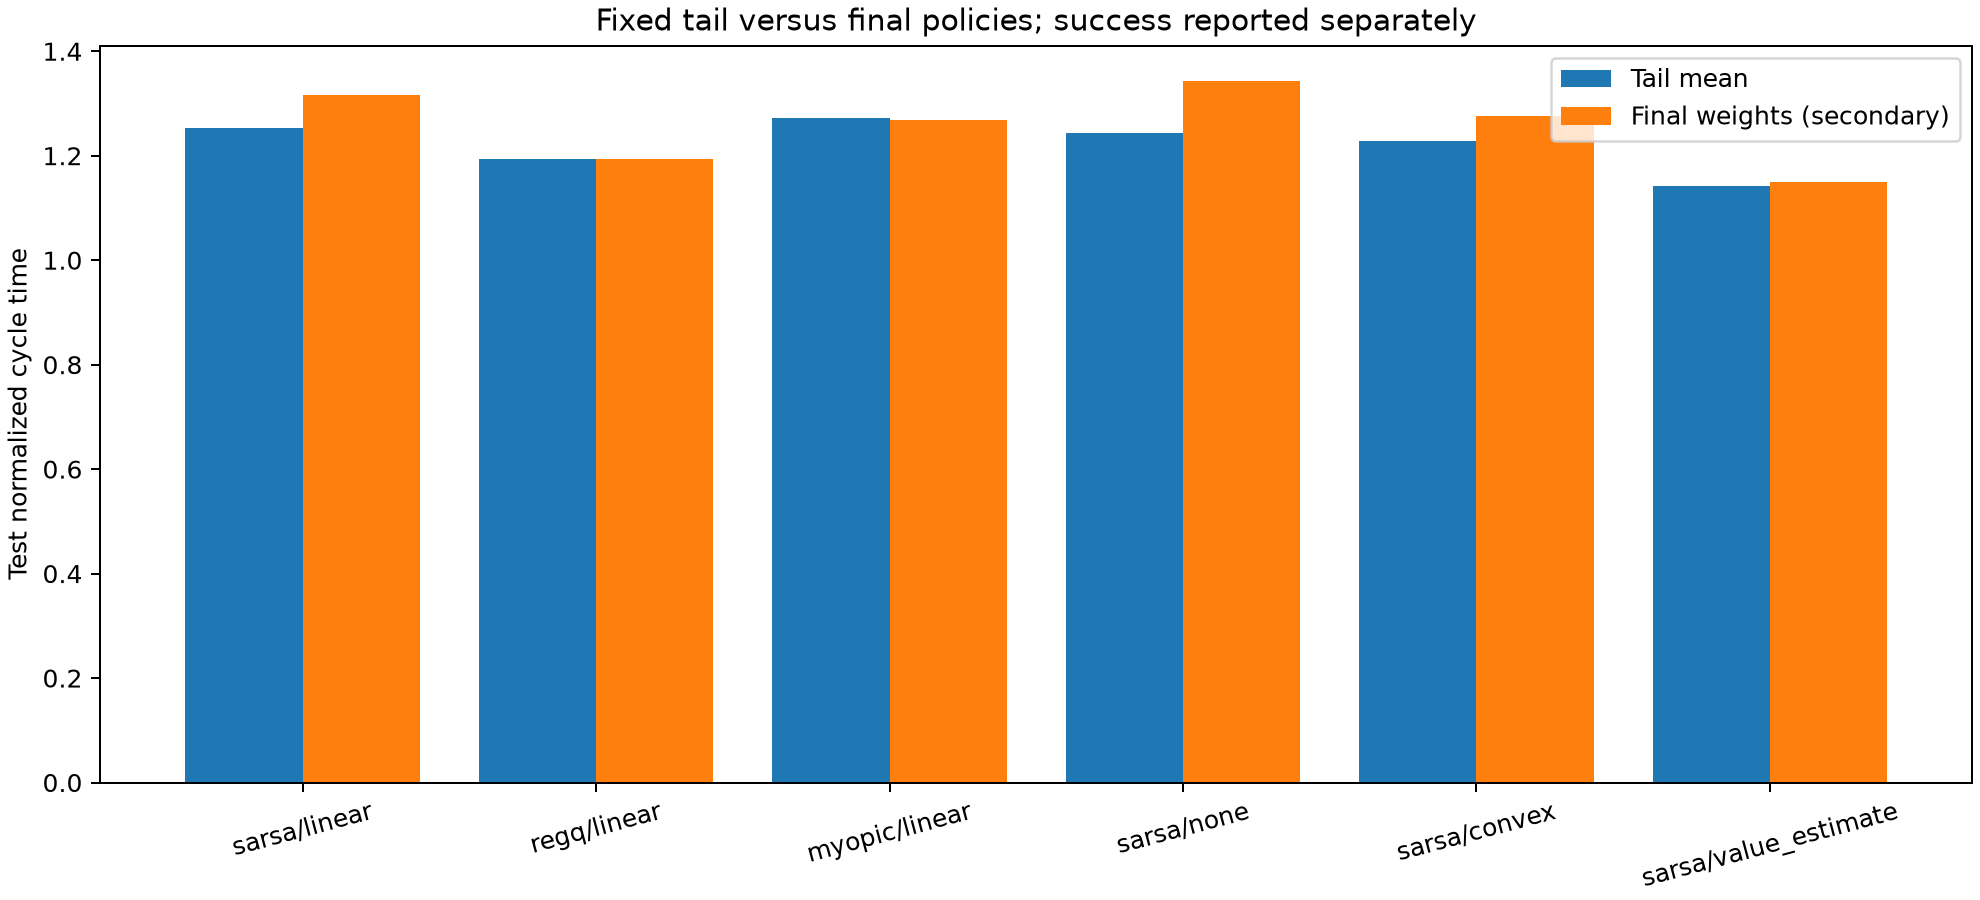
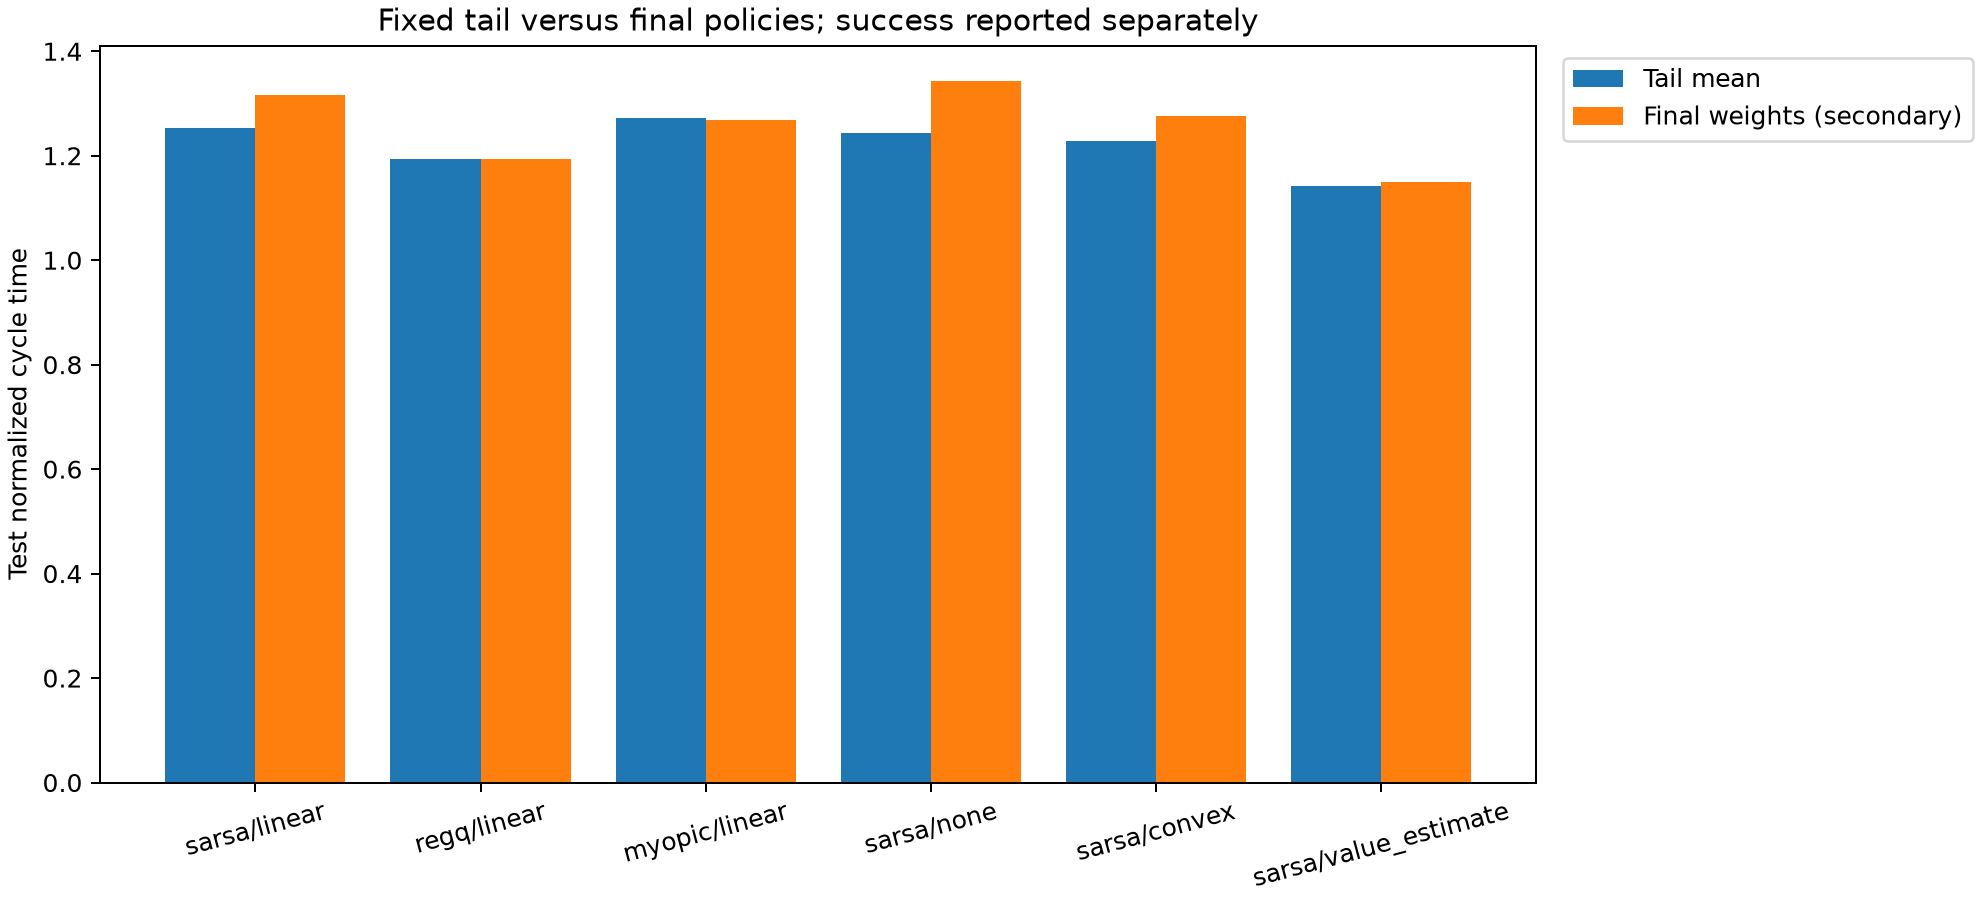
plan002(slice6e): make presentation exports repeatable and align chart scales

diff --git a/src/nbv/publication.py b/src/nbv/publication.py
@@ -6,6 +6,7 @@ import re
 from pathlib import Path
 import numpy as np
 from nbv.phase1_report import rows,record_groups,mean,ARMS,BASELINES
+from nbv.report_common import model_limitations
 
 
 def reference_table(keys,literature='docs/LITERATURE.md'):
@@ -83,6 +84,7 @@ def report(registry='results/registry.csv'):
         'hypotheses':test_text.split('Hypotheses and pretest predictions:\n\n',1)[1].split('\nH1',1)[0],
         'cross_split':finding,'planning':planning,'raw_ceiling':ceiling,
         'secondary':test_text.split('Secondary metrics (tail policy; passes to 95% conditional on success):\n\n',1)[1].split('\n\nSecondary coverage',1)[0],
+        'model_limitations':model_limitations().strip().replace('## Model limitations','### Model limitations',1),
     }
     reference_keys=['thingi10k','vanseijen2016','regq','ng1999','grzes2017','wiewiora2003','canonaco2024',
         'patterson2024','smith_winkler2006','eimer2023','zhang2023_sarsa','saravanan2020',
@@ -95,10 +97,13 @@ def report(registry='results/registry.csv'):
     import matplotlib.pyplot as plt
     destination=Path('results/figures'); destination.mkdir(exist_ok=True)
     def save(fig,name):
-        for ext in ('png','pdf'): fig.savefig(destination/f'{name}.{ext}',dpi=180,metadata={'Creator':'NBV-RL registry report'})
+        for ext in ('png','pdf'):
+            metadata={'Creator':'NBV-RL registry report'}
+            if ext=='pdf': metadata|={'CreationDate':None,'ModDate':None}
+            fig.savefig(destination/f'{name}.{ext}',dpi=180,metadata=metadata)
         plt.close(fig)
     labels=[*ARMS,*BASELINES]
-    fig,axes=plt.subplots(1,3,figsize=(18,7),sharey=True,layout='constrained')
+    fig,axes=plt.subplots(1,3,figsize=(18,7),sharey=True,sharex=True,layout='constrained')
     for ax,part in zip(axes,sorted({str(e['part']) for e in test['sarsa/linear']})):
         values=[mean([e for e in test[label] if str(e['part'])==part],'normalized_cycle_time') for label in labels]
         ax.barh(labels,values,color=['#2166ac' if '/' in label else '#888888' for label in labels])
@@ -116,5 +121,5 @@ def report(registry='results/registry.csv'):
     ax.bar(x-.2,[mean(test[label],'normalized_cycle_time') for label in ARMS],.4,label='Tail mean')
     ax.bar(x+.2,[mean(final[label],'normalized_cycle_time') for label in ARMS],.4,label='Final weights (secondary)')
     ax.set(xticks=x,xticklabels=ARMS,ylabel='Test normalized cycle time',title='Fixed tail versus final policies; success reported separately')
-    ax.tick_params(axis='x',rotation=15); ax.legend(); save(fig,'phase1_tail_vs_final_v1')
+    ax.tick_params(axis='x',rotation=15); ax.legend(loc='upper left',bbox_to_anchor=(1.01,1)); save(fig,'phase1_tail_vs_final_v1')
     return blocks
